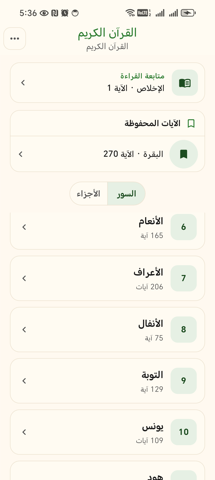
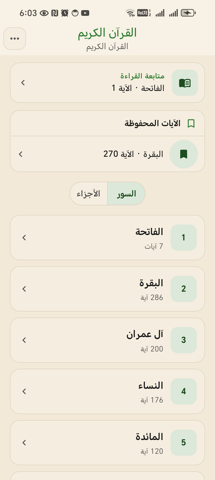
fix: reduce light-mode surface brightness (#97)

diff --git a/lib/presentation/theme/app_theme.dart b/lib/presentation/theme/app_theme.dart
@@ -4,24 +4,24 @@ class AppTheme {
   static const String quranFontFamily = 'KFGQPCHafsUthmanicScript';
 
   // Light semantic roles.
-  static const Color appBackground = Color(0xFFFFF9F0);
-  static const Color appSurface = Color(0xFFFFFBF2);
-  static const Color readerPage = appSurface;
+  static const Color appBackground = Color(0xFFF3E9D8);
+  static const Color appSurface = Color(0xFFF8F1E5);
+  static const Color readerPage = Color(0xFFFCF6EC);
   static const Color mushafPaper = Color(0xFFFFF4CB);
-  static const Color surfaceContainer = Color(0xFFFCF6EB);
-  static const Color elevatedSurface = Color(0xFFF7EFE2);
-  static const Color highestSurface = Color(0xFFF1E7D8);
-  static const Color dimSurface = Color(0xFFF2EADF);
+  static const Color surfaceContainer = Color(0xFFF5EDDF);
+  static const Color elevatedSurface = appSurface;
+  static const Color highestSurface = Color(0xFFFBF5EA);
+  static const Color dimSurface = Color(0xFFEFE4D2);
 
   static const Color primaryAction = Color(0xFF2E7D32);
   static const Color onPrimaryAction = Color(0xFFFFFFFF);
-  static const Color selectedSurface = Color(0xFFE6F0E4);
+  static const Color selectedSurface = Color(0xFFDCE8D9);
   static const Color onSelectedSurface = Color(0xFF1C4C20);
 
   static const Color primaryText = Color(0xFF1A1A1A);
   static const Color secondaryText = Color(0xFF555555);
   static const Color controlOutline = Color(0xFF756B5C);
-  static const Color subtleDivider = Color(0xFFE8DCC8);
+  static const Color subtleDivider = Color(0xFFD9CCB8);
 
   // Quranic accents stay separate from application interaction colors.
   static const Color quranGold = Color(0xFFB8860B);
@@ -61,7 +61,7 @@ class AppTheme {
         surfaceDim: dimSurface,
         surfaceBright: appSurface,
         surfaceContainerLowest: appSurface,
-        surfaceContainerLow: appSurface,
+        surfaceContainerLow: surfaceContainer,
         surfaceContainer: surfaceContainer,
         surfaceContainerHigh: elevatedSurface,
         surfaceContainerHighest: highestSurface,

diff --git a/test/presentation/app_theme_test.dart b/test/presentation/app_theme_test.dart
@@ -12,9 +12,9 @@ void main() {
 
         expect(theme.scaffoldBackgroundColor, AppTheme.appBackground);
         expect(colors.surface, AppTheme.appSurface);
-        expect(colors.surfaceContainerLow, AppTheme.appSurface);
+        expect(colors.surfaceContainerLow, AppTheme.surfaceContainer);
         expect(colors.surfaceContainerHigh, AppTheme.elevatedSurface);
-        expect(AppTheme.readerPage, AppTheme.appSurface);
+        expect(AppTheme.readerPage, isNot(AppTheme.appSurface));
         expect(AppTheme.mushafPaper, isNot(AppTheme.appSurface));
         expect(colors.primary, AppTheme.primaryAction);
         expect(colors.onPrimary, AppTheme.onPrimaryAction);
@@ -94,6 +94,19 @@ void main() {
         );
       },
     );
+
+    test('keeps large light surfaces below near-white glare levels', () {
+      final backgroundLuminance = AppTheme.appBackground.computeLuminance();
+      final surfaceLuminance = AppTheme.appSurface.computeLuminance();
+      final containerLuminance = AppTheme.surfaceContainer.computeLuminance();
+      final readerLuminance = AppTheme.readerPage.computeLuminance();
+
+      expect(backgroundLuminance, lessThanOrEqualTo(.86));
+      expect(surfaceLuminance, lessThanOrEqualTo(.91));
+      expect(readerLuminance, lessThanOrEqualTo(.93));
+      expect(containerLuminance, lessThan(surfaceLuminance));
+      expect(backgroundLuminance, lessThan(surfaceLuminance));
+    });
 
     test('Quranic accents remain distinct and readable on the reader page', () {
       expect(AppTheme.quranGold, isNot(AppTheme.primaryAction));
